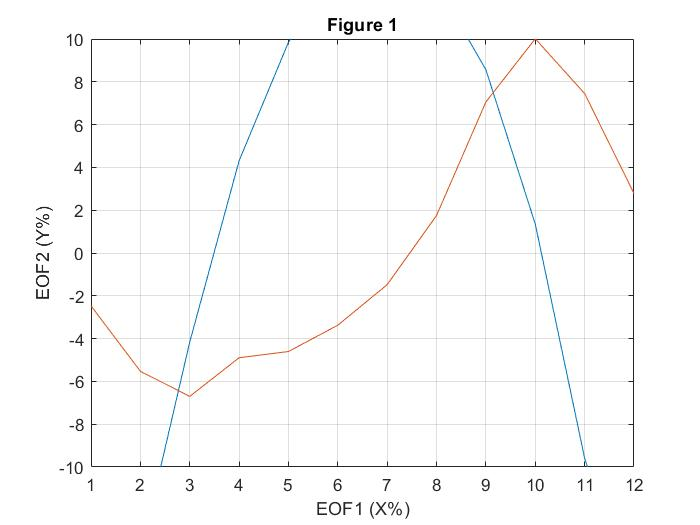
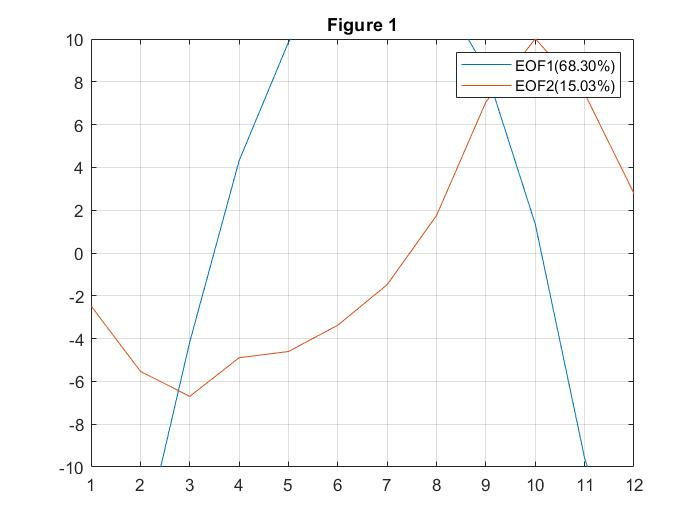
Fixed legend and explained variance calculation.

diff --git a/HW11/hwmk11_script.m b/HW11/hwmk11_script.m
@@ -45,8 +45,9 @@ axis([1 12 -10 10]);
 grid;
 
 %3d) Label EOF time series as EOF1(X%) and EOF2(Y%)
-xlabel('EOF1 (X%)');
-ylabel('EOF2 (Y%)');
+EOF1_perc=expl_var(1);
+EOF2_perc=expl_var(2);
+legend('EOF1(68.30%)','EOF2(15.03%)');
 
 %4a)Set inputs to m_datamap
 dx=0.25;
